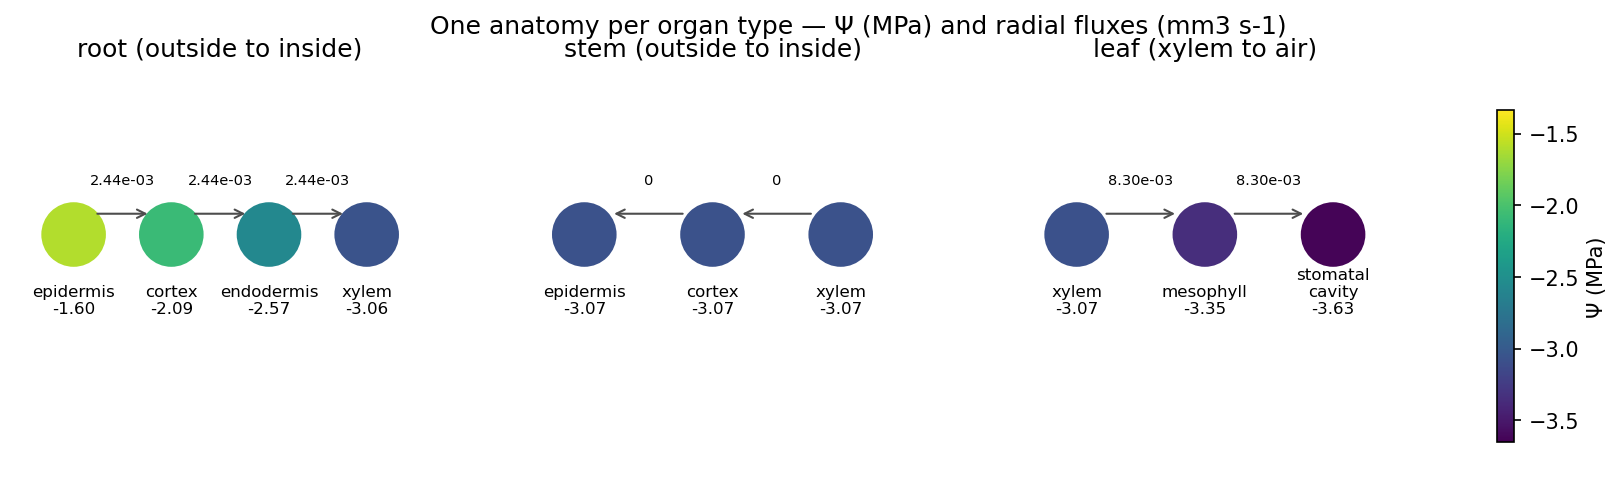
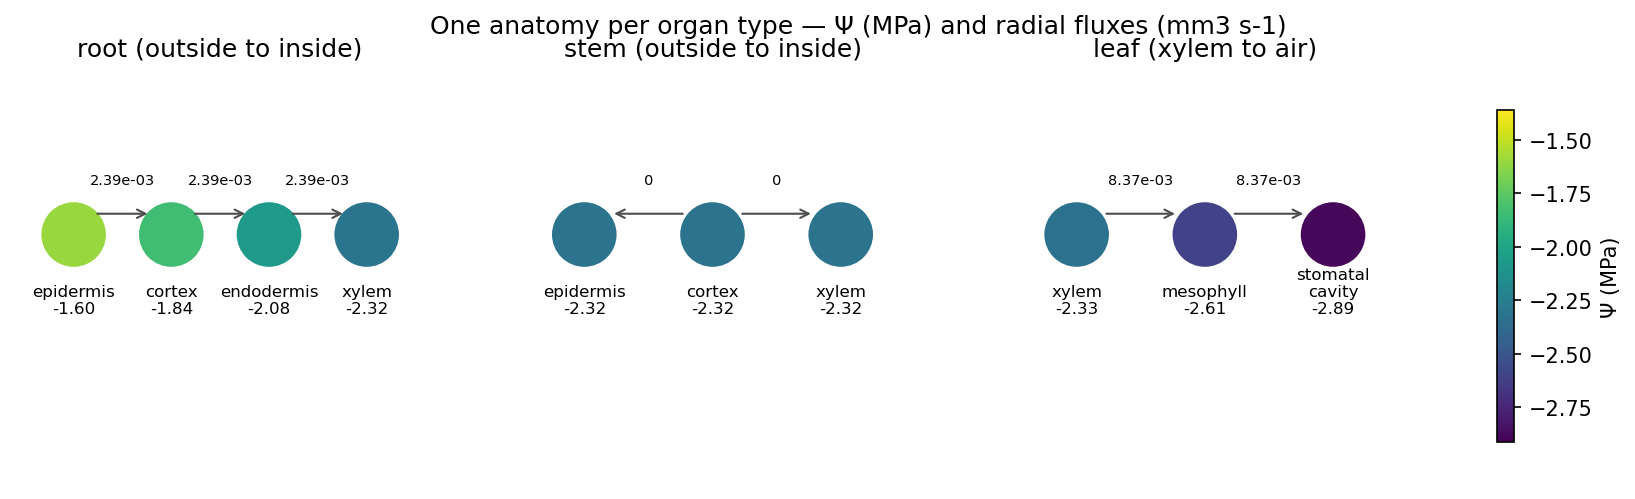
SPAC example: upscaling of the water potentials from Compartments to plants, one graph per scale

diff --git a/examples/soil_plant_atmosphere/plotting.py b/examples/soil_plant_atmosphere/plotting.py
@@ -6,6 +6,8 @@ Plots of the example's DataStructures and of the converged water potentials on t
     anatomy_types       one anatomy per organ type (root, stem, leaf): its tissues, Ψ and the radial fluxes
     soil_slice          a vertical slice of the soil grid (or along a planting row), Ψ coloured, the roots over it
     top_view            the stand from above: the water taken up per soil column, the segments drawn over it
+    upscaling_series    the water potential upscaled from the Compartments to the plants (upscaling.py), one graph
+                        per scale, on one colour scale
 """
 import numpy as np
 import matplotlib
@@ -15,6 +17,7 @@ from matplotlib.collections import LineCollection
 from matplotlib.colors import Normalize
 
 from seedling import ANATOMY, LEAF, ROOT, STEM, XYLEM
+from upscaling import upscale
 
 TISSUE_NAMES = {1: "epidermis", 2: "cortex", 3: "endodermis", 4: "xylem", 5: "mesophyll", 6: "stomatal cavity"}
 ORGAN_NAMES = {ROOT: "root", STEM: "stem", LEAF: "leaf"}
@@ -215,3 +218,58 @@ def top_view(grid, plant_data_structures, path, title="Top view: water taken up 
     fig.colorbar(image, ax=ax, label="uptake (mm3 s-1)")
     fig.savefig(path, dpi=150, bbox_inches="tight")
     plt.close(fig)
+
+
+def _entity_of_segment(ds, scale):
+    """Per SubOrgan entity, the index of the entity of *scale* it belongs to."""
+    segment_of_node, entity_of_node = np.asarray(ds.owner("SubOrgan")), np.asarray(ds.owner(scale))
+    entity_of_segment = np.empty(len(ds.entity_ids("SubOrgan")), dtype=int)
+    entity_of_segment[segment_of_node] = entity_of_node
+    return entity_of_segment
+
+
+def upscaling_series(ds, folder, prefix="upscale", row=None):
+    """
+    One graph per step of the upscaling of the water potential (Compartment, SubOrgan, Organ, Axis, Plant), every
+    segment coloured by the value of its entity at that scale, on one colour scale; side views of planting row *row*
+    when given. Returns the paths written.
+    """
+    import os
+    names = upscale(ds)
+    kept, h = _row(ds, row)
+    norm = Normalize(vmin=float(np.min(ds.get("water_potential"))), vmax=float(np.max(ds.get("water_potential"))))
+    start, end, _ = _segments(ds)
+    lines_xz = np.stack([start[kept][:, [h, 2]], end[kept][:, [h, 2]]], axis=1)
+    paths = []
+    for rank, (scale, name) in enumerate(names.items(), start=1):
+        fig, ax = plt.subplots(figsize=(7, 6))
+        if scale == "Compartment":
+            node_kept = kept[np.asarray(ds.owner("SubOrgan"))]
+            position = _compartment_positions(ds, h)
+            index = {int(v): i for i, v in enumerate(ds.entity_ids("node"))}
+            edges = np.array([[index[int(a)], index[int(b)]] for a, b in ds.edges()])
+            edges = edges[node_kept[edges[:, 0]] & node_kept[edges[:, 1]]]
+            ax.add_collection(LineCollection(position[edges], colors="0.7", linewidths=0.5))
+            mappable = ax.scatter(position[node_kept, 0], position[node_kept, 1], s=9, cmap="viridis", norm=norm,
+                                  c=np.asarray(ds.get(name))[node_kept], zorder=3)
+            count = int(node_kept.sum())
+        else:
+            entity = _entity_of_segment(ds, scale)[kept]
+            mappable = LineCollection(lines_xz, cmap="viridis", norm=norm, linewidths=3)
+            mappable.set_array(np.asarray(ds.get(name))[entity])
+            ax.add_collection(mappable)
+            ax.autoscale()
+            count = len(np.unique(entity))                         # the entities drawn
+        ax.axhline(0., color="saddlebrown", linewidth=1)
+        ax.set_aspect("equal")
+        ax.set_xlabel("y (m)" if row is not None else "x (m)")
+        ax.set_ylabel("z (m)")
+        how = "solved" if scale == "Compartment" else "mean of the scale below"
+        ax.set_title(f"{rank}. Ψ at {scale} scale ({how}; {count} entities)")
+        fig.colorbar(mappable, ax=ax, label="Ψ (MPa)")
+        path = os.path.join(folder, f"{prefix}_{rank}_{scale.lower()}.png")
+        fig.savefig(path, dpi=150, bbox_inches="tight")
+        plt.close(fig)
+        paths.append(path)
+    return paths
+

diff --git a/test/examples/test_soil_plant_atmosphere.py b/test/examples/test_soil_plant_atmosphere.py
@@ -16,7 +16,9 @@ import one_plant                                                                
 import population                                                                    # noqa: E402
 from models import Soil                                                               # noqa: E402
 
-FIGURES = ("plant_segments.png", "plant_anatomy.png", "anatomy_types.png", "soil_slice.png", "top_view.png")
+FIGURES = ("plant_segments.png", "plant_anatomy.png", "anatomy_types.png", "soil_slice.png", "top_view.png",
+           "upscale_1_compartment.png", "upscale_2_suborgan.png", "upscale_3_organ.png", "upscale_4_axis.png",
+           "upscale_5_plant.png")
 
 
 def _environment(scene, kind):
@@ -37,12 +39,29 @@ def _check_balances(scene):
     assert from_the_water_table == pytest.approx(uptake + evaporation, rel=1e-6)
 
 
+def _check_upscaling(ds):
+    """Each scale is the mean of the scale below it, down to one value per plant."""
+    from upscaling import upscale
+    names = upscale(ds)
+    below = "Compartment"
+    for scale in ("SubOrgan", "Organ", "Axis", "Plant"):
+        owner = np.asarray(ds.owner(scale)) if below == "Compartment" else None
+        values, lower = np.asarray(ds.get(names[scale])), np.asarray(ds.get(names[below]))
+        if owner is not None:
+            expected = np.bincount(owner, weights=lower) / np.bincount(owner)
+            np.testing.assert_allclose(values, expected, rtol=1e-12)
+        assert values.size == len(ds.entity_ids(scale))
+        below = scale
+    assert np.asarray(ds.get(names["Plant"])).size == len(ds.entity_ids("Plant"))
+
+
 @pytest.mark.parametrize("example", [one_plant, population], ids=["one_plant", "population"])
 def test_the_example_converges_with_closed_water_balances(example, tmp_path):
     scene, stop = example.scene(output_dirpath=str(tmp_path / "records"))
     scene.simulate(50)
     assert scene.stopped and stop.history[-1] < 1e-6 and scene.iteration < 50
     _check_balances(scene)
+    _check_upscaling(scene.populations[0].data_structure)
     leaves = scene.populations[0].data_structure
     assert -10. < float(leaves.get("water_potential").min()) < -1.                  # a transpiring, not wilted, plant
     assert os.path.exists(tmp_path / "records" / "SeedlingWater" / "summaries.csv")

diff --git a/examples/soil_plant_atmosphere/upscaling.py b/examples/soil_plant_atmosphere/upscaling.py
@@ -1,0 +1,23 @@
+"""
+Upscaling the solved water potentials of the plants from their Compartments to the whole plant, scale by scale:
+each scale is the average of the scale below it, a derived variable of the DataStructure (recomputed when the
+potentials change, e.g. at each scene step).
+
+    Compartment -> SubOrgan -> Organ -> Axis -> Plant
+"""
+
+SCALES = ("SubOrgan", "Organ", "Axis", "Plant")
+
+
+def upscale(ds, name="water_potential", scales=SCALES) -> dict:
+    """
+    Derive *name* at each of *scales* in turn, each the mean of the previous one, on DataStructure *ds*. Returns
+    {scale: derived variable name}, "Compartment" for the solved one.
+    """
+    names, source = {"Compartment": name}, name
+    for scale in scales:
+        target = f"{name}_{scale}"
+        if not ds.has(target):
+            ds.derive(target, {source: 1.}, location=scale, aggregation="mean")
+        names[scale], source = target, target
+    return names

diff --git a/examples/soil_plant_atmosphere/population.py b/examples/soil_plant_atmosphere/population.py
@@ -16,7 +16,7 @@ from models import SCENE_TRANSLATOR, SeedlingWater, Soil, largest_change, root_s
 from one_plant import plots, summary
 
 
-def scene(output_dirpath=None, tolerance=1e-6, root_radial_k=(0.2, 0.5, 1.0), soil_scenario=None):
+def scene(output_dirpath=None, tolerance=1e-6, root_radial_k=(0.4, 0.5, 0.6), soil_scenario=None):
     """
     A stand laid out by planting_table (rows every 0.1 m at 100 plants m-2, the stand's size adjusted to the rows and
     kept in the table, which sizes the soil grid); the root radial conductance of each

diff --git a/examples/soil_plant_atmosphere/one_plant.py b/examples/soil_plant_atmosphere/one_plant.py
@@ -36,6 +36,7 @@ def plots(built, folder, row=None):
     plotting.anatomy_types(plants[0], os.path.join(folder, "anatomy_types.png"))
     plotting.soil_slice(soil, plants, os.path.join(folder, "soil_slice.png"), row=row)
     plotting.top_view(soil, plants, os.path.join(folder, "top_view.png"))
+    plotting.upscaling_series(plants[0], folder, row=row)          # Compartment -> SubOrgan -> Organ -> Axis -> Plant
 
 
 def summary(built, stop):

diff --git a/examples/soil_plant_atmosphere/README.md b/examples/soil_plant_atmosphere/README.md
@@ -12,6 +12,7 @@ dry atmosphere. Every part shows a feature of metafspm:
 | `models.py` | **Models and translators.** The plant population model (`SeedlingWater`: initiators, anatomy mode) and the soil environment model. Translators inside a DataStructure (k → conductance), and across DataStructures (soil Ψ → root epidermis, uptake → soil cells). A `CrossMapping` of the root surface only (`mask=`). A `stop_when` condition on the change of Ψ between steps. |
 | `one_plant.py` | **A Scene with one seedling**, run until the lagged plant–soil fixed point converges, with a `SceneRecorder`. |
 | `population.py` | **A Scene with a planted stand.** `planting_table` lays out the plants, and each plant's root radial conductance comes from its own scenario (`per_plant_scenarios`). |
+| `upscaling.py` | **Upscaling** the solved water potentials from the Compartments to the plants, scale by scale (SubOrgan, Organ, Axis, Plant), each the mean of the scale below: one derived variable per scale (`ds.derive(..., location=scale, aggregation="mean")`), recomputed when the potentials change. |
 | `plotting.py` | **Plots** of the DataStructures and of the converged Ψ: the plants at SubOrgan scale, the full graph with the anatomies, one anatomy per organ type, a soil slice with the roots, a top view of the uptake. |
 
 Run, from this folder:
@@ -36,6 +37,17 @@ evaporation.
 ![soil slice](figures/one_plant/soil_slice.png)
 ![top view](figures/one_plant/top_view.png)
 
+### Upscaling, step by step
+
+The solved potentials of the 164 Compartments are averaged into the 44 segments, then the 12 organs, the 4 axes and
+the plant (`upscaling.py`). Each step is one `derive`; every graph uses the same colour scale.
+
+![1. Compartments](figures/one_plant/upscale_1_compartment.png)
+![2. SubOrgan](figures/one_plant/upscale_2_suborgan.png)
+![3. Organ](figures/one_plant/upscale_3_organ.png)
+![4. Axis](figures/one_plant/upscale_4_axis.png)
+![5. Plant](figures/one_plant/upscale_5_plant.png)
+
 ## A population
 
 The plants share the soil; their root radial conductances cycle through 0.2, 0.5 and 1.0. Under a dry air
@@ -47,6 +59,8 @@ The side views show the first planting row (four plants, seen along the row, in 
 ![plants](figures/population/plant_segments.png)
 ![soil slice](figures/population/soil_slice.png)
 ![top view](figures/population/top_view.png)
+
+The upscaling series of the first row's plants: [Compartments](figures/population/upscale_1_compartment.png), [SubOrgan](figures/population/upscale_2_suborgan.png), [Organ](figures/population/upscale_3_organ.png), [Axis](figures/population/upscale_4_axis.png), [Plant](figures/population/upscale_5_plant.png).
 
 ## Notes
 

diff --git a/devlog.md b/devlog.md
@@ -2043,3 +2043,4 @@ Per-file counts:
 - **Pivot root (your request):** the first of the three first-order roots is a pivot (80° below the horizontal, gravitropism 0.8, 8 segments, down to about 20 cm); the two others spread along ±x and bend down. Converges in 5 and 6 steps.
 - **Longer laterals (your request):** 4 segments of 2 cm (8 cm, from 4.5 cm). Converges in 5 and 6 steps.
 - **Population side views (your request):** the side plots (SubOrgan segments, anatomy graph, soil slice) show only one planting row (row=0), seen along the row in the y–z plane.
+- **Upscaling series (your request):** `upscaling.py` derives the water potential at SubOrgan, Organ, Axis and Plant, each the mean of the scale below (one `derive` per scale); `plotting.upscaling_series` draws one graph per scale on one colour scale (the first row for the population). The smoke test checks the means and the five figures.
